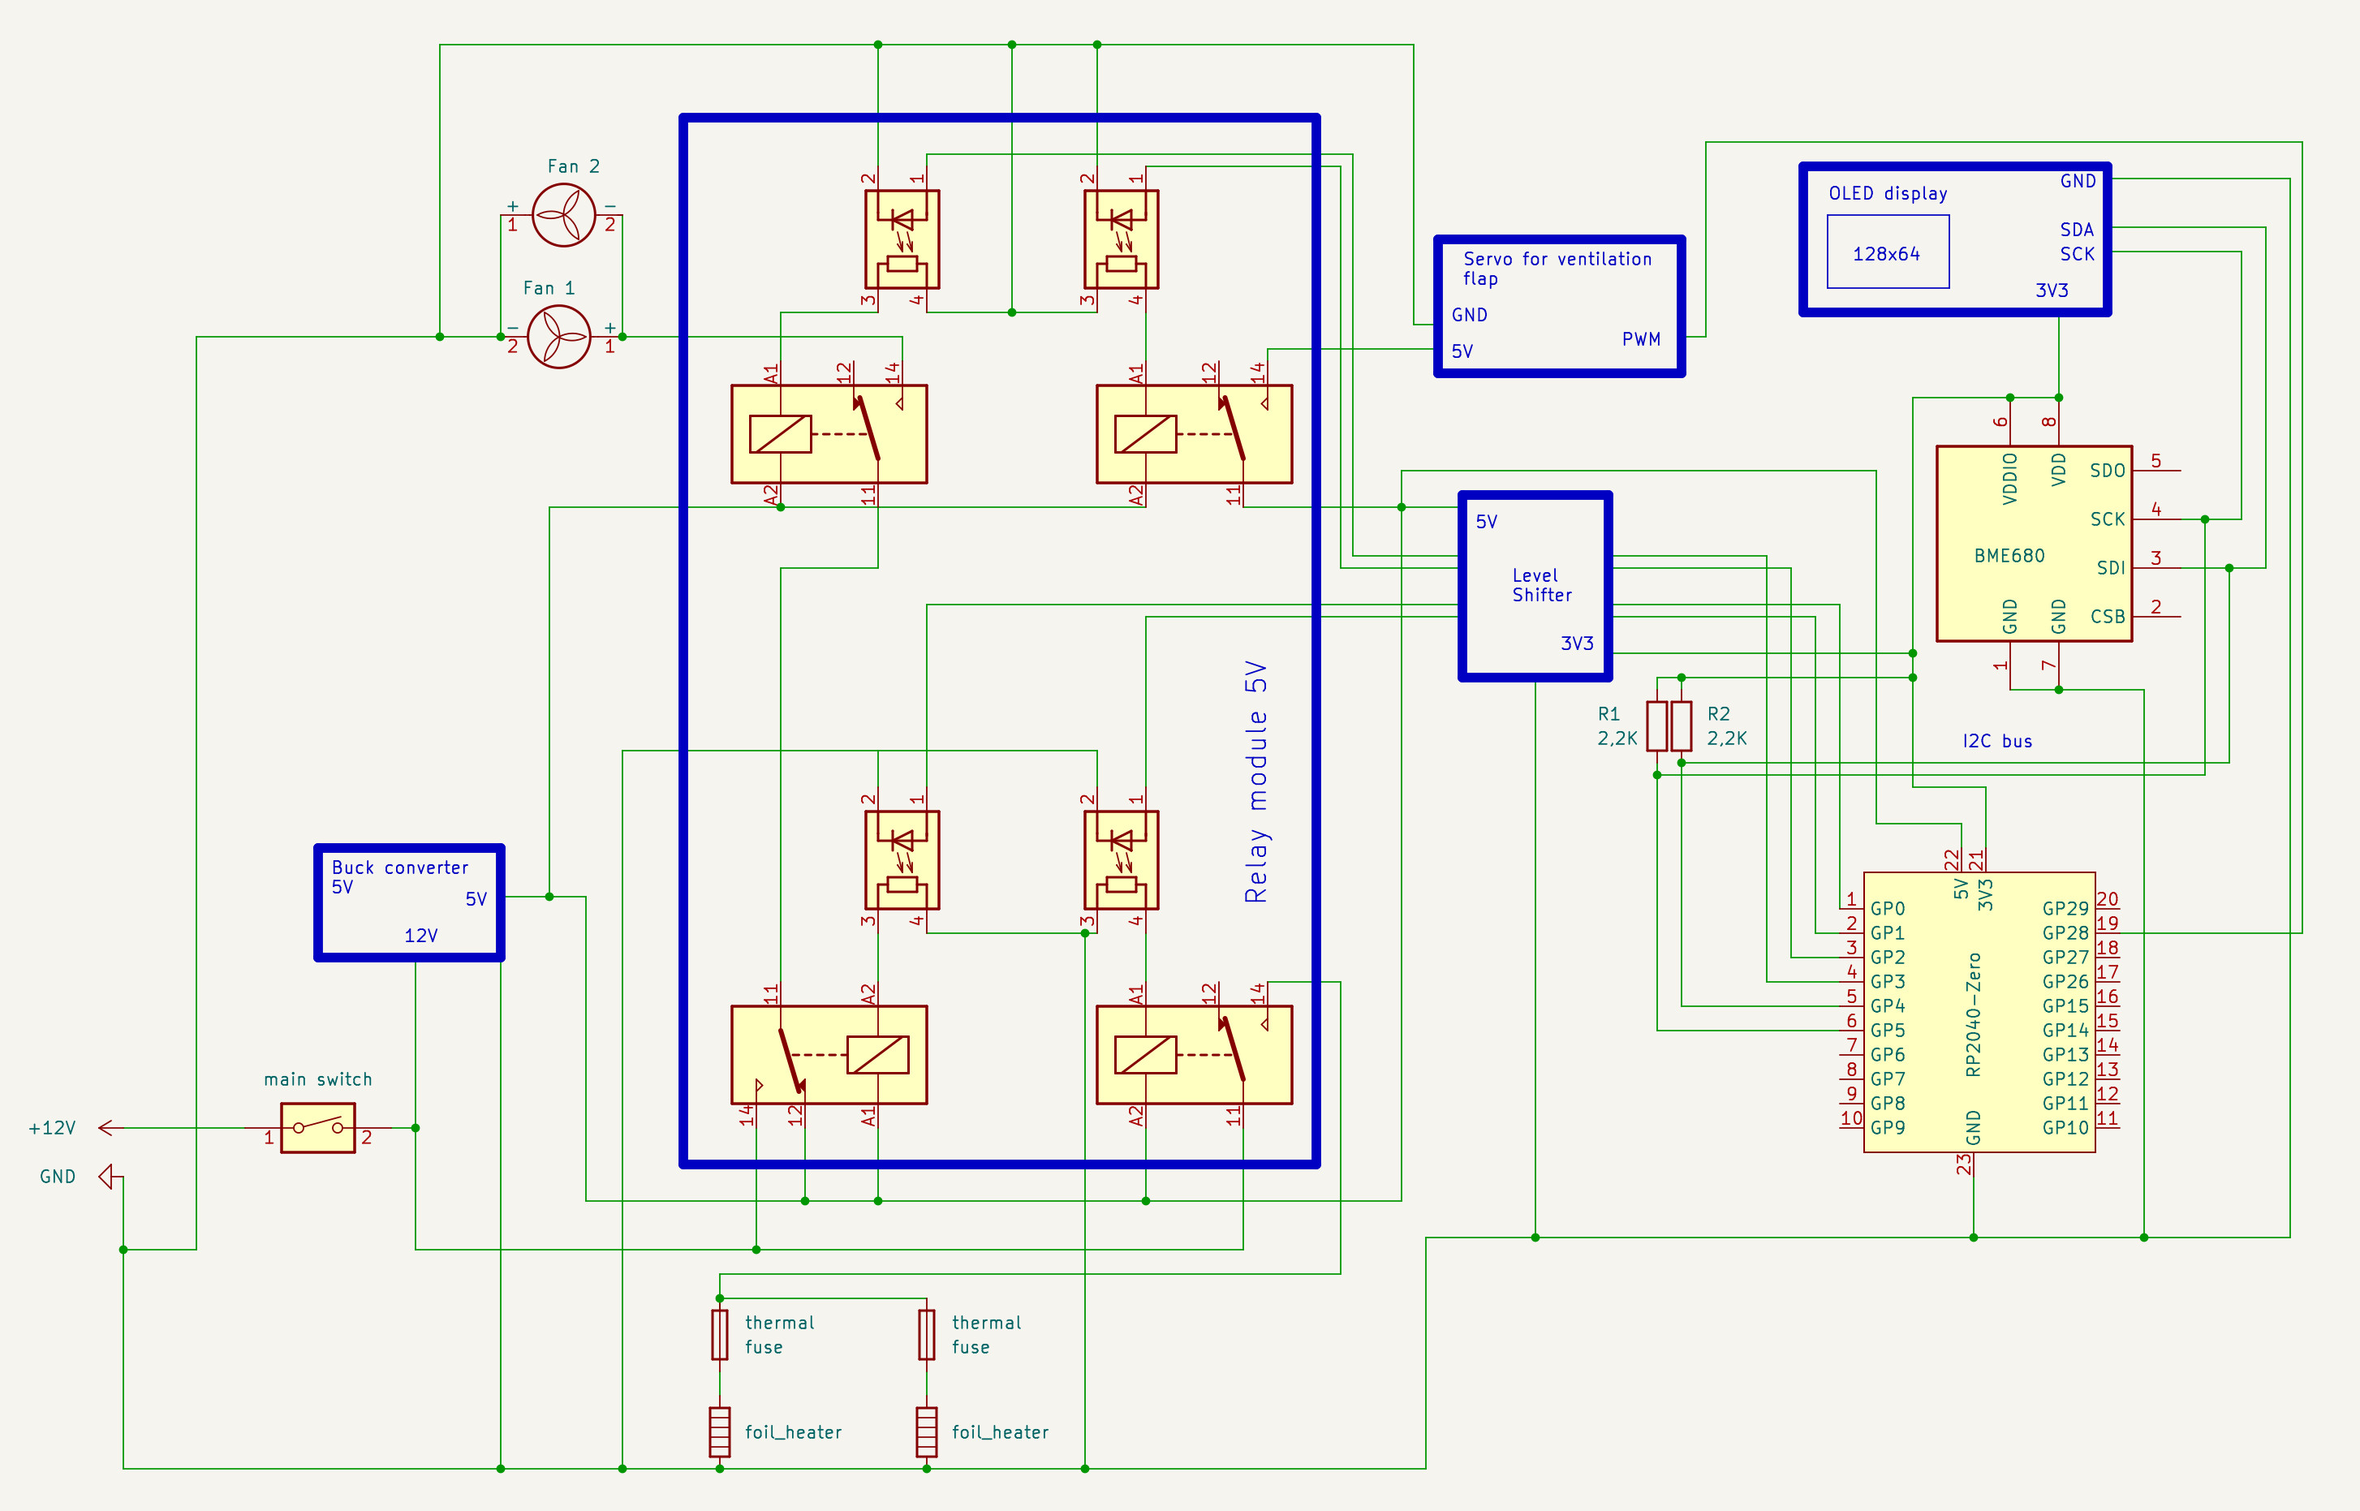
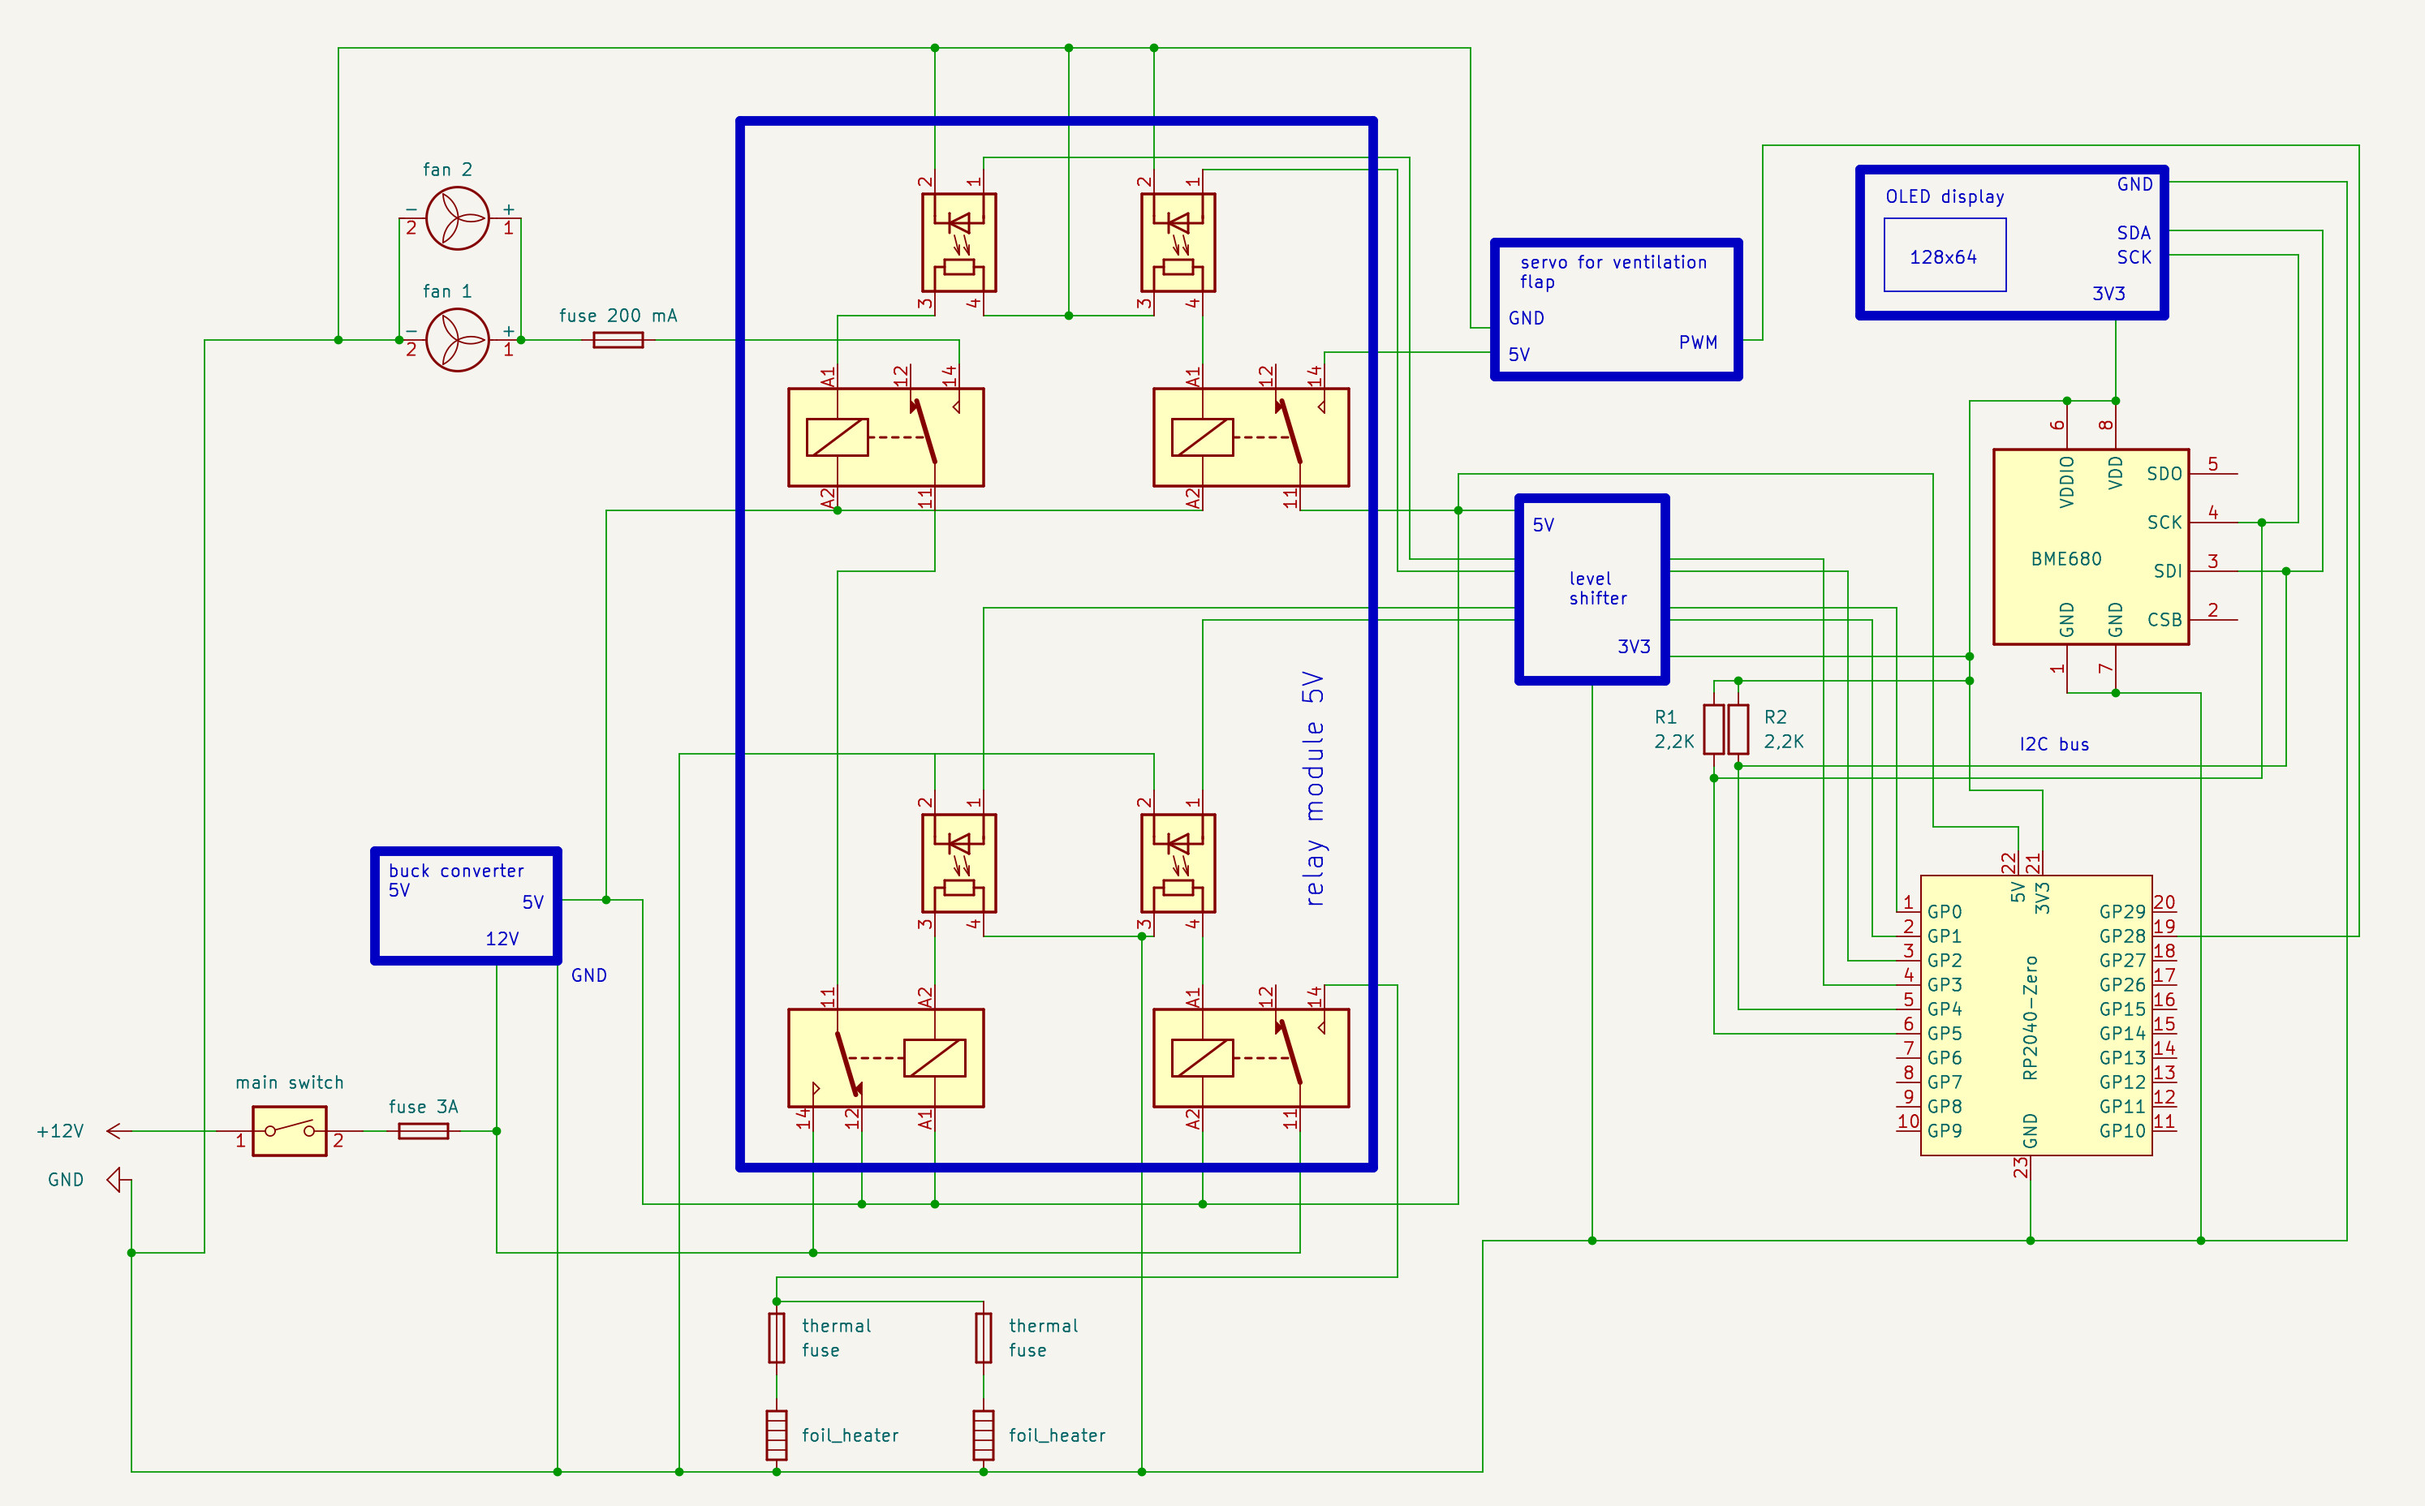
Fuses added

diff --git a/README.md b/README.md
@@ -12,6 +12,8 @@ This is a small program written in uLisp controlling an automated incubator. It 
 - 2 computer fans (12 V)
 - 2 foil heaters 12 V, 12 W
 - 2 thermal fuses (e.g. 84 degrees Celsius)
+- 1 miniature fuse 3 A (main power supply)
+- 1 self-resetting fuse 200 mA (fans)
 - main switch
 - 12 V power supply, at least 3 A continuous power delivery
 - micro servo for ventilation flap
